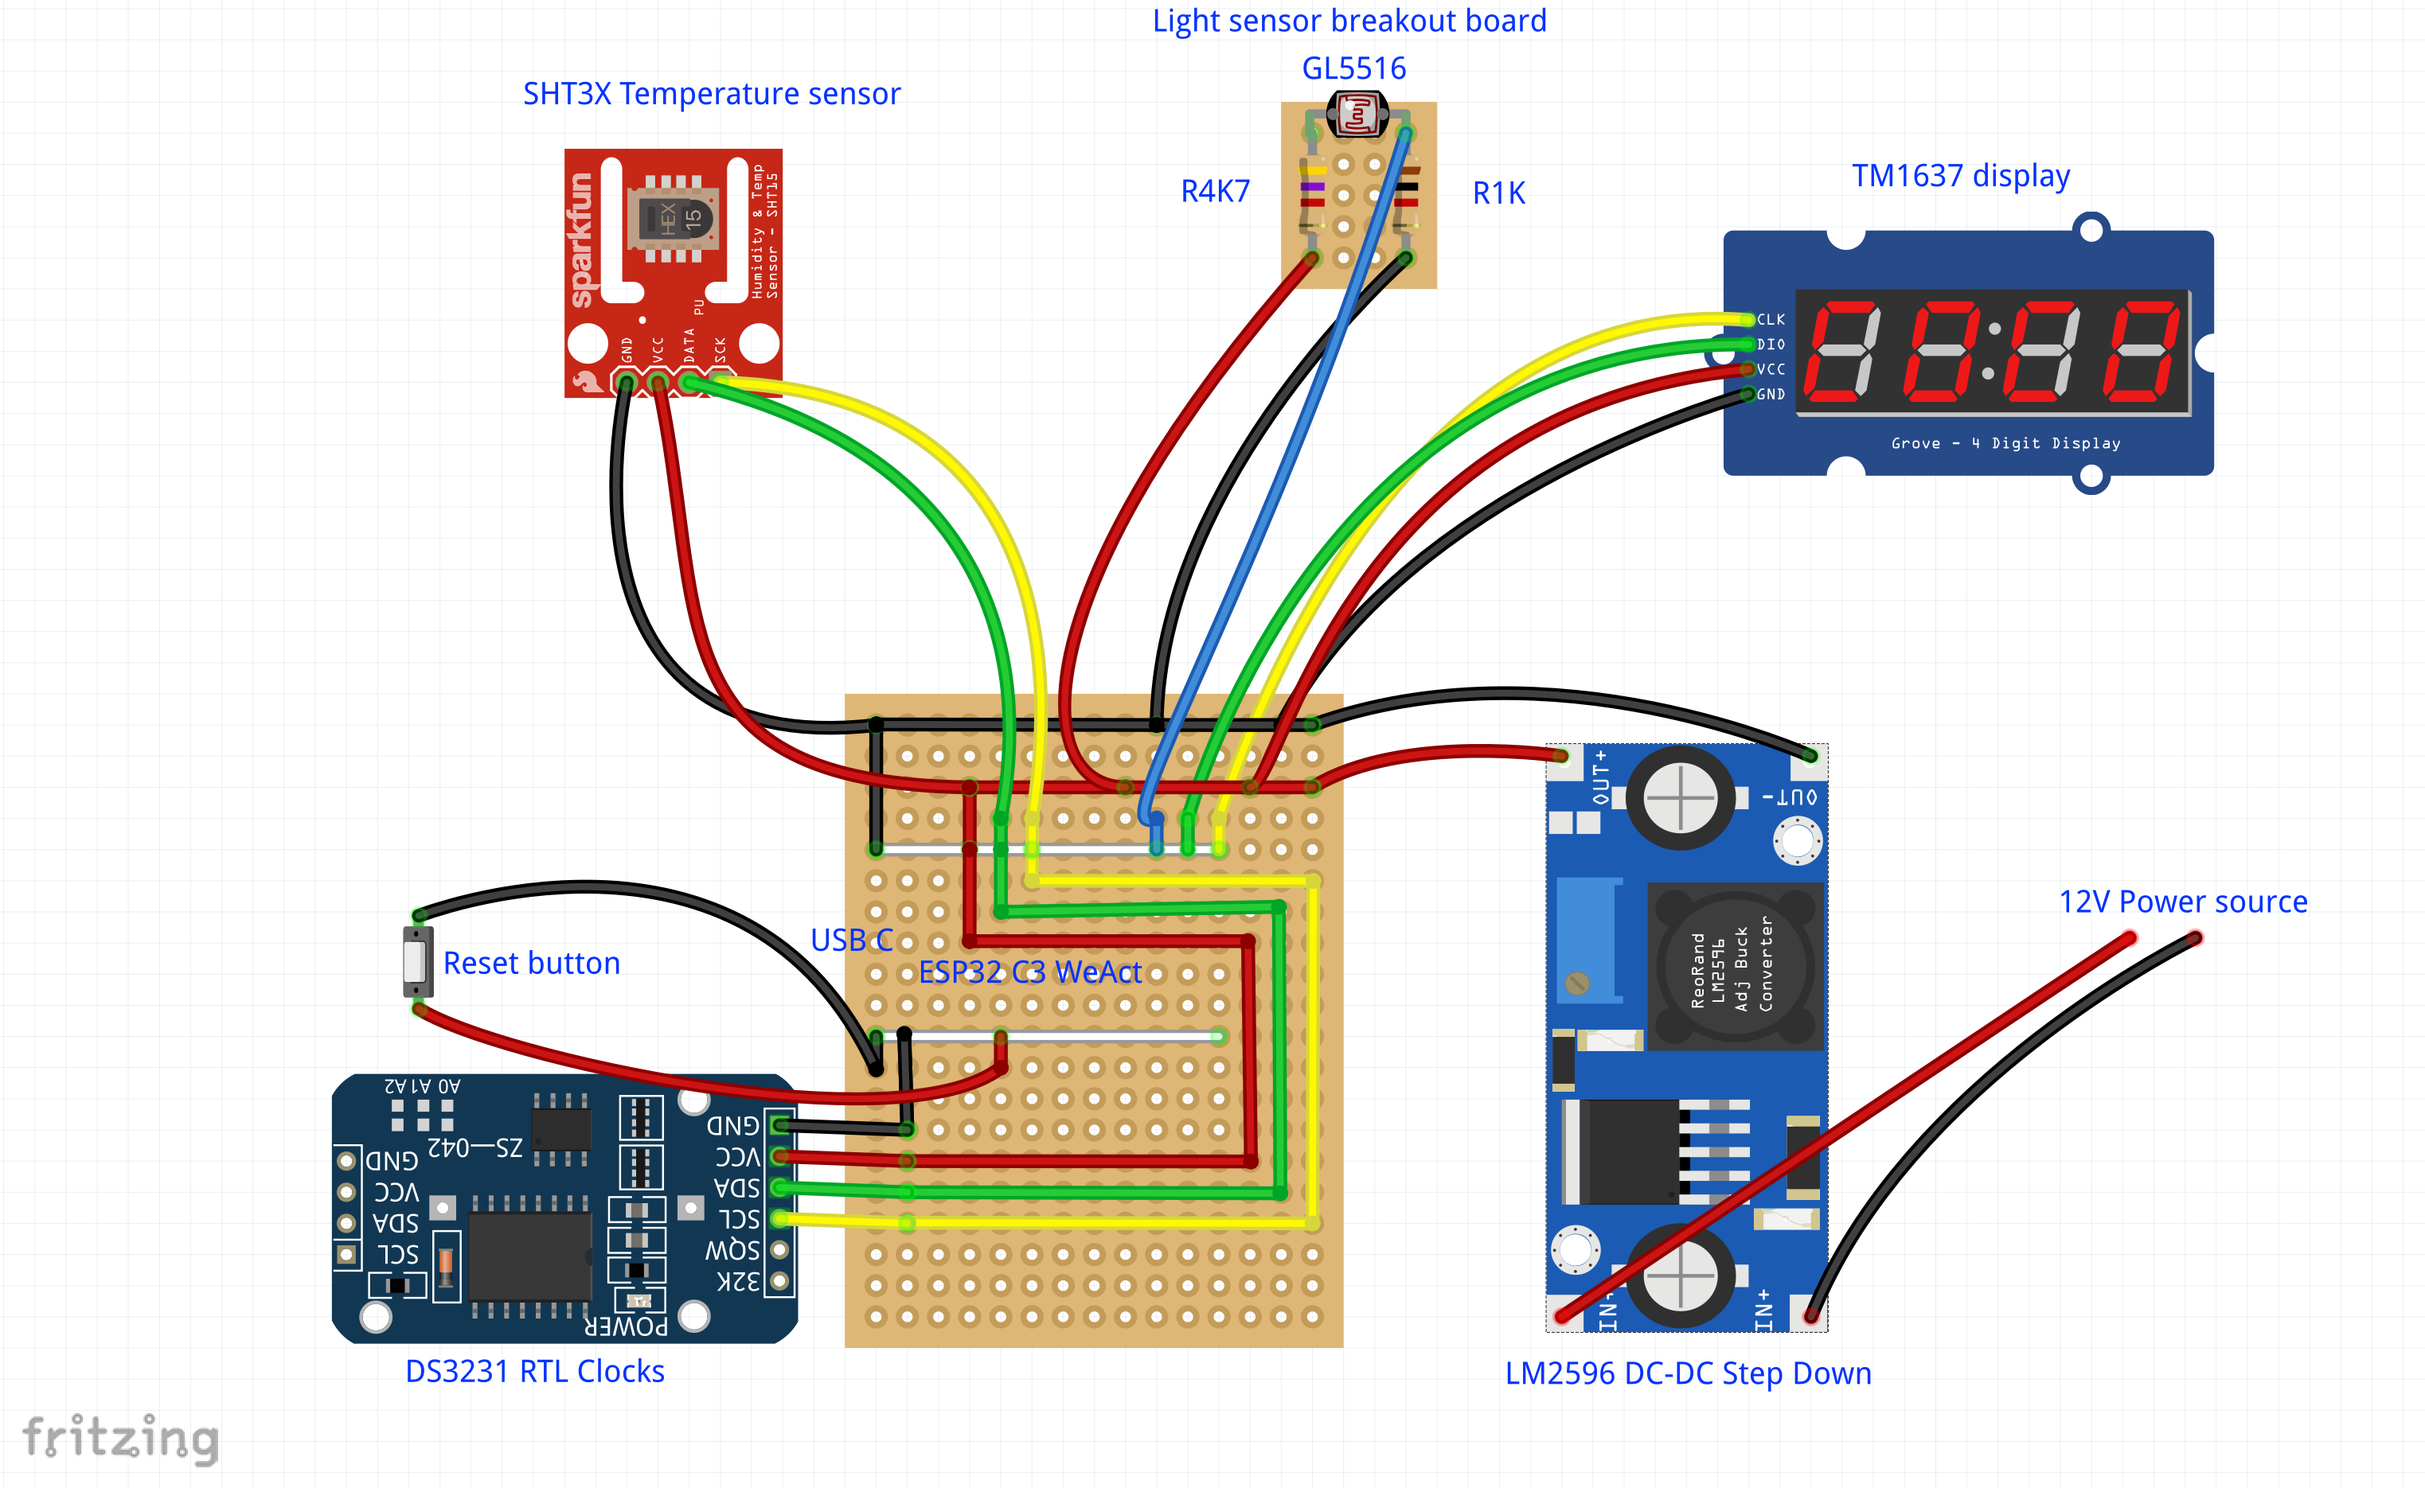
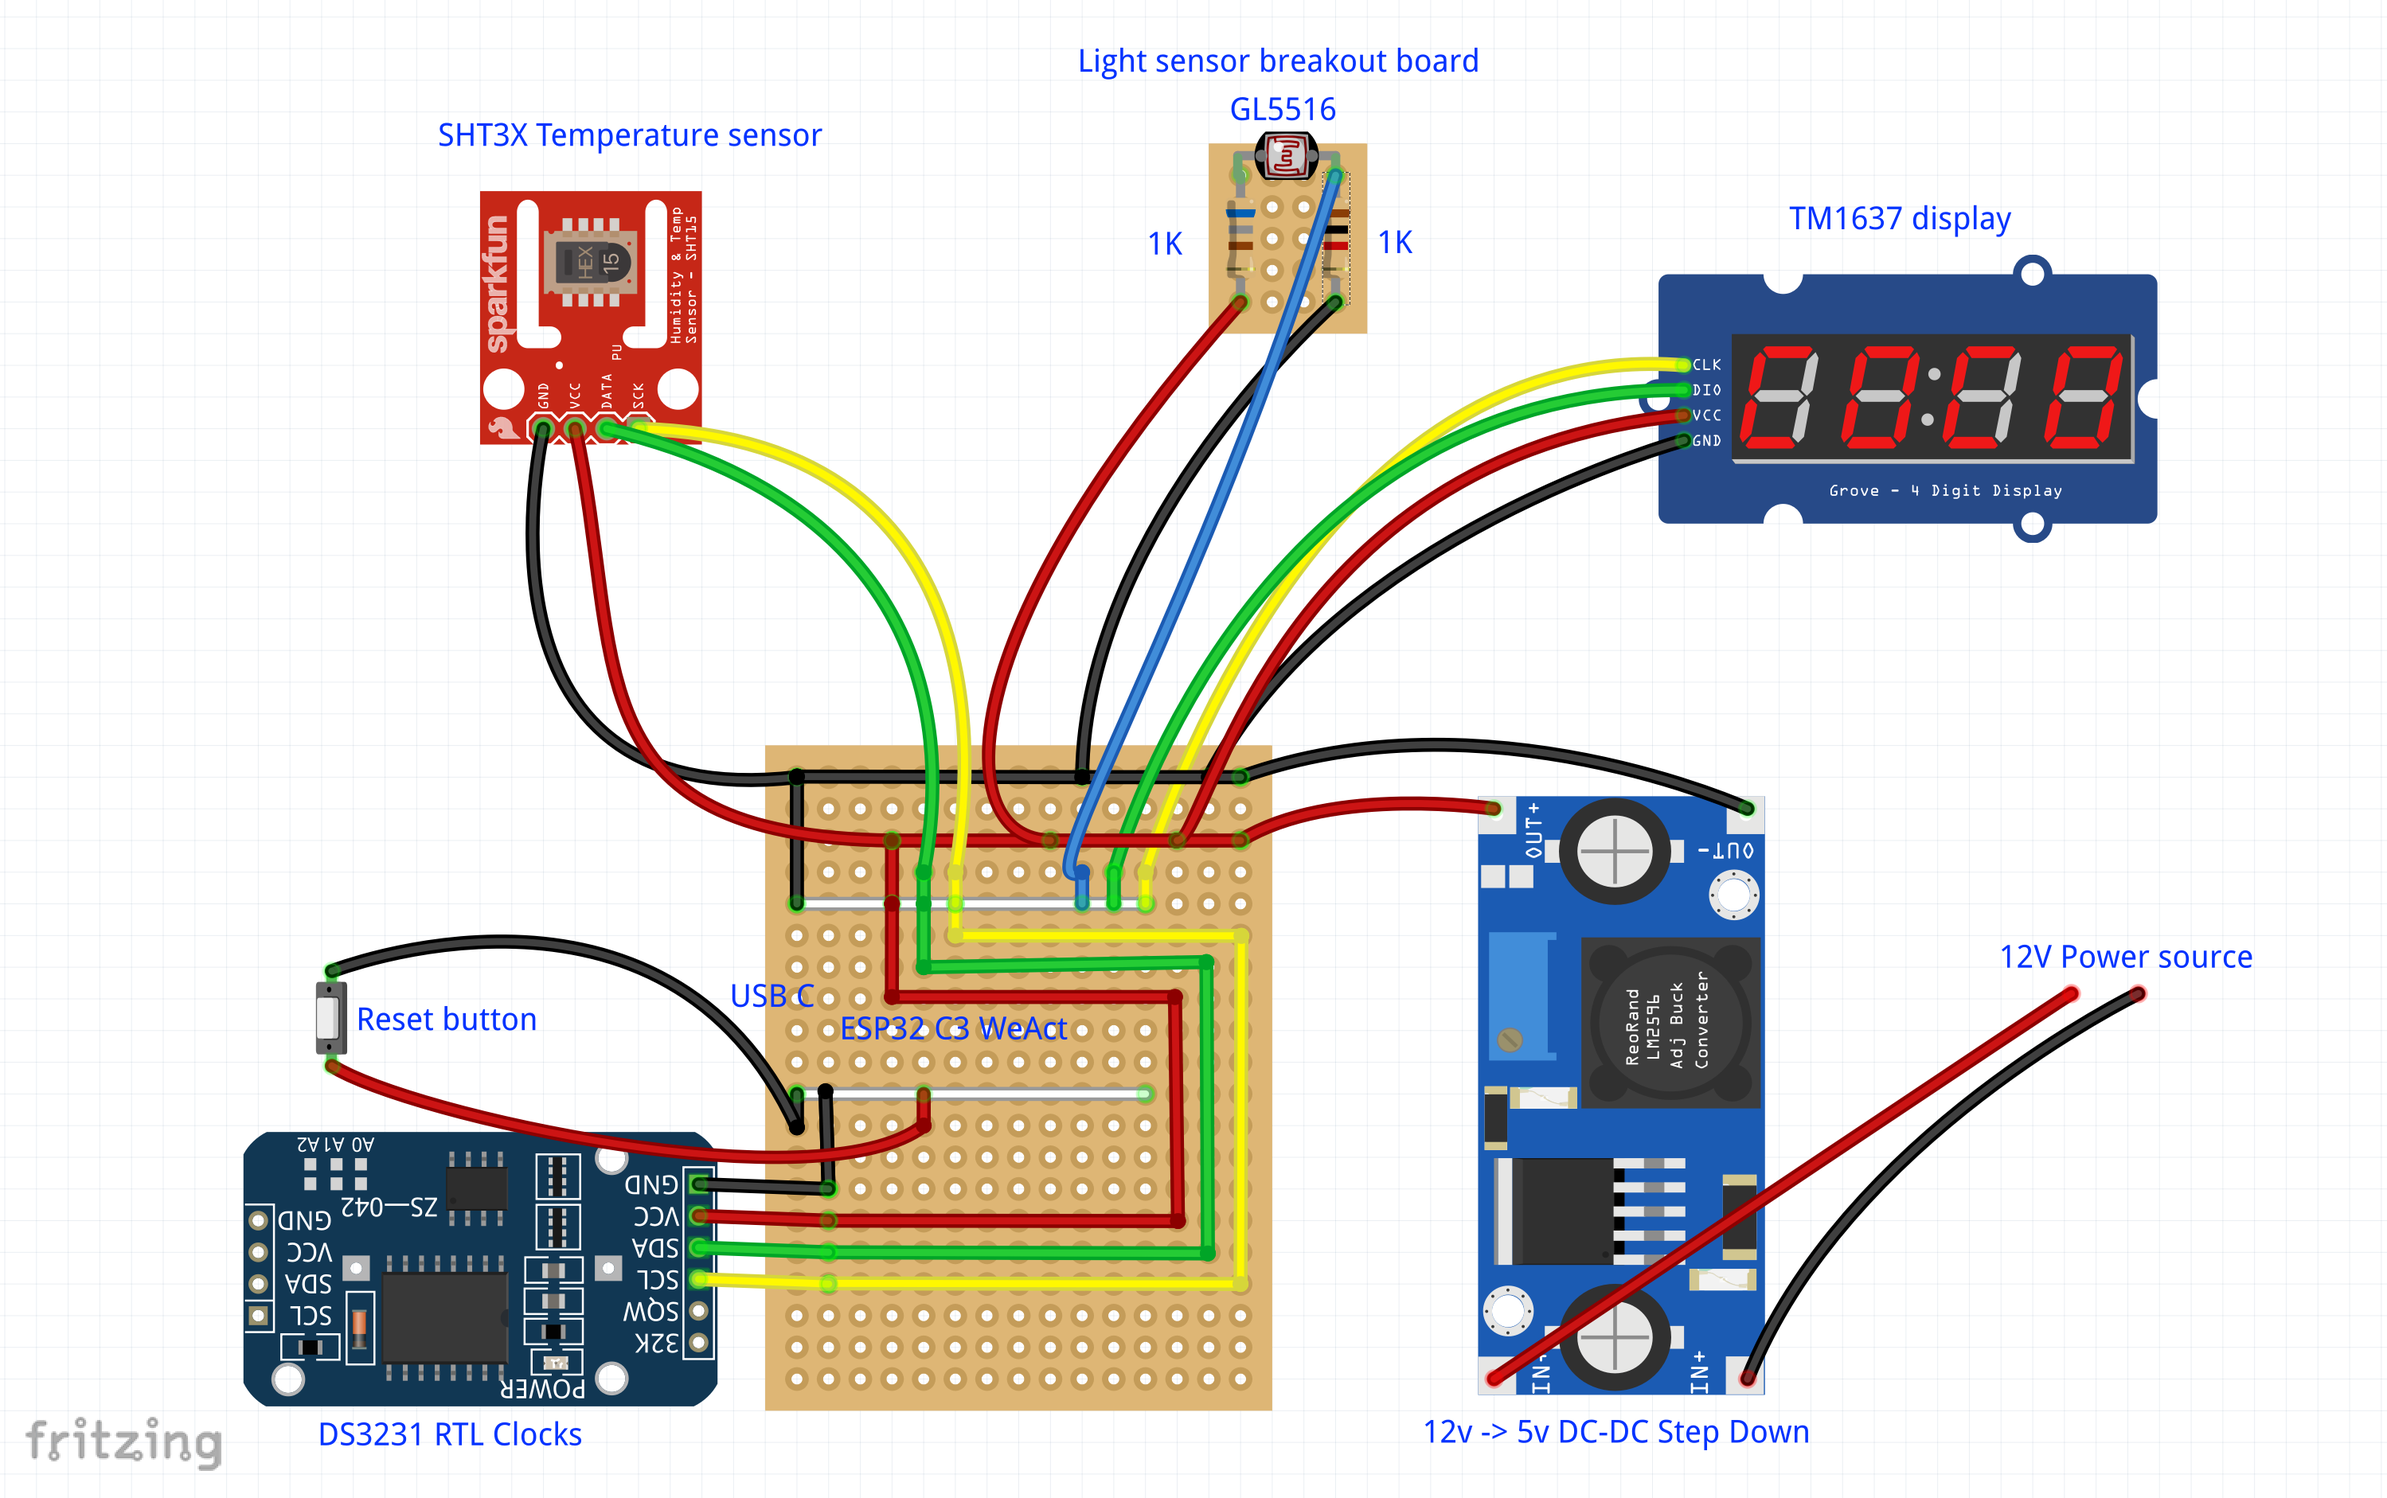
DS1820 temperature sensor support added, ADC oneshot mode added, photoresistor resistance changed

Changed region(s): [[0.0, 0.0, 0.9616, 0.9925]]

diff --git a/main/main.c b/main/main.c
@@ -46,13 +46,15 @@ void app_main(void)
 
   xTaskCreatePinnedToCore(&led_task, "LED", configMINIMAL_STACK_SIZE * 2, NULL, 1, NULL, 1);
   xTaskCreatePinnedToCore(&wifi_task, "Wi-Fi Keeper", configMINIMAL_STACK_SIZE * 3, NULL, 1, NULL, 1);
-  // xTaskCreatePinnedToCore(&light_sensor_task, "Light Sensor", configMINIMAL_STACK_SIZE * 2, NULL, 1, NULL, 1);
-  xTaskCreatePinnedToCore(&light_sensor_adc_task, "Light Sensor ADC", configMINIMAL_STACK_SIZE * 2, NULL, 1, NULL, 1);
+  // xTaskCreatePinnedToCore(&light_sensor_hw072_task, "Light Sensor", configMINIMAL_STACK_SIZE * 2, NULL, 1, NULL, 1);
+  // xTaskCreatePinnedToCore(&light_sensor_adc_task, "Light Sensor ADC", configMINIMAL_STACK_SIZE * 2, NULL, 1, NULL, 1);
+  xTaskCreatePinnedToCore(&light_sensor_adc_oneshot_task, "Light Sensor ADC Oneshot", configMINIMAL_STACK_SIZE * 2, NULL, 1, NULL, 1);
   xTaskCreatePinnedToCore(&external_timer_task, "External Timer", configMINIMAL_STACK_SIZE * 2, NULL, 1, NULL, 1);
   xTaskCreatePinnedToCore(&ntp_task, "NTP Sync", configMINIMAL_STACK_SIZE * 2, NULL, 1, NULL, 1);
   xTaskCreatePinnedToCore(&lcd_tm1637_task, "LCD TM1637", configMINIMAL_STACK_SIZE * 2, NULL, 1, NULL, 1);
   // xTaskCreatePinnedToCore(&temperature_from_SHT3X_sensor_task, "Temperature from SHT3X", configMINIMAL_STACK_SIZE * 2, NULL, 1, NULL, 1);
-  xTaskCreatePinnedToCore(&temperature_from_BMP280_sensor_task, "Temperature from BMP280", configMINIMAL_STACK_SIZE * 2, NULL, 1, NULL, 1);
+  // xTaskCreatePinnedToCore(&temperature_from_BMP280_sensor_task, "Temperature from BMP280", configMINIMAL_STACK_SIZE * 2, NULL, 1, NULL, 1);
+  xTaskCreatePinnedToCore(&temperature_from_DS1820_sensor_task, "Temperature from DS1820", configMINIMAL_STACK_SIZE * 2, NULL, 1, NULL, 1);
   xTaskCreatePinnedToCore(&weather_from_api_task, "Weather from API", configMINIMAL_STACK_SIZE * 3, NULL, 1, NULL, 1);
   xTaskCreatePinnedToCore(&ota_update_task, "OTA Update", configMINIMAL_STACK_SIZE * 4, NULL, 1, NULL, 1);
   xTaskCreatePinnedToCore(&system_state_task, "System State", configMINIMAL_STACK_SIZE * 2, NULL, 1, NULL, 1);

diff --git a/main/light/light_adc_oneshot.c b/main/light/light_adc_oneshot.c
@@ -1,7 +1,7 @@
 #include <freertos/FreeRTOS.h>
 #include <freertos/task.h>
 #include <driver/gpio.h>
-#include <driver/adc.h>
+#include "esp_adc/adc_oneshot.h"
 #include <esp_log.h>
 
 #include "sdkconfig.h"
@@ -9,25 +9,49 @@
 
 #include "light.h"
 
-static const char *TAG = "Light Sensor ADC";
+static const char *TAG = "Light Sensor ADC Oneshot";
 
 static const gpio_num_t LIGHT_SENSOR_PIN = CONFIG_LIGHT_SENSOR_PIN;
 static const uint16_t ADC_SWITCH_VALUE = 1400; // 3550 for MH light sensor breakout board
 static const uint16_t ADC_DRIFTING_TOLERANCE = 100;
 
-void light_sensor_adc_task(void *pvParameter)
+void light_sensor_adc_oneshot_task(void *pvParameter)
 {
   ESP_LOGI(TAG, "Init start");
-  adc1_config_width(ADC_WIDTH_MAX);
-  adc1_config_channel_atten(LIGHT_SENSOR_PIN, ADC_ATTEN_DB_11);
-
   bool is_event_bit_set = false;
   bool prev_global_is_light_on = false;
+  adc_channel_t channel;
+  adc_unit_t unit;
+
+  esp_err_t err = adc_oneshot_io_to_channel(LIGHT_SENSOR_PIN, &unit, &channel);
+  if (err != ESP_OK)
+  {
+    ESP_LOGE(TAG, "Pin %d is not ADC pin!", LIGHT_SENSOR_PIN);
+    vTaskDelete(NULL);
+  }
+  else
+  {
+    ESP_LOGI(TAG, "ADC channel: %d", channel);
+  }
+  adc_oneshot_unit_handle_t adc_handle;
+  adc_oneshot_unit_init_cfg_t init_config = {
+      .unit_id = unit,
+  };
+  adc_oneshot_new_unit(&init_config, &adc_handle);
+
+  adc_oneshot_chan_cfg_t config = {
+      .bitwidth = ADC_BITWIDTH_DEFAULT,
+      .atten = ADC_ATTEN_DB_11,
+  };
+  adc_oneshot_config_channel(adc_handle, channel, &config);
+  ESP_LOGI(TAG, "Init end");
 
   while (1)
   {
-    uint16_t adc_value = adc1_get_raw(LIGHT_SENSOR_PIN);
+    int adc_value;
+    adc_oneshot_read(adc_handle, channel, &adc_value);
     // ESP_LOGI(TAG, "ADC value: %d", adc_value);
+
     if (adc_value < ADC_SWITCH_VALUE - ADC_DRIFTING_TOLERANCE || adc_value > ADC_SWITCH_VALUE + ADC_DRIFTING_TOLERANCE)
     {
       global_is_light_on = adc_value > ADC_SWITCH_VALUE;

diff --git a/main/temperature_from_sensor/temperature_from_sensor_ds1820.c b/main/temperature_from_sensor/temperature_from_sensor_ds1820.c
@@ -1,0 +1,69 @@
+#include <inttypes.h>
+#include <freertos/FreeRTOS.h>
+#include <freertos/task.h>
+#include <driver/gpio.h>
+#include <esp_log.h>
+#include <string.h>
+#include <ds18x20.h>
+#include <inttypes.h>
+
+#include "sdkconfig.h"
+#include "global_event_group.h"
+
+#include "temperature_from_sensor.h"
+
+static const gpio_num_t SENSOR_GPIO = CONFIG_ONEWIRE_GPIO;
+static const uint8_t REFRESH_INTERVAL_MINS = 1;
+
+static const char *TAG = "DS1820 Temperature Sensor";
+
+uint64_t find_sensor_address()
+{
+  size_t sensor_count = 0;
+  onewire_addr_t addrs[1];
+
+  ds18x20_scan_devices(SENSOR_GPIO, addrs, 1, &sensor_count);
+
+  if (sensor_count > 0)
+  {
+    ESP_LOGI(TAG, "Sensor address: %lld", addrs[0]);
+    return addrs[0];
+  }
+  else
+  {
+    ESP_LOGE(TAG, "No sensors found!");
+    return 0;
+  }
+}
+
+void temperature_from_DS1820_sensor_task(void *pvParameter)
+{
+  // Not needed if there is a pull-up resistor on the data line (4.7k)
+  // gpio_set_pull_mode(SENSOR_GPIO, GPIO_PULLUP_ONLY);
+
+  float temperature;
+  uint64_t sensor_address = find_sensor_address();
+
+  if (sensor_address == 0)
+  {
+    vTaskDelete(NULL);
+  }
+
+  while (true)
+  {
+    xEventGroupClearBits(global_event_group, IS_INSIDE_TEMPERATURE_READING_DONE_BIT);
+
+    if (ds18x20_measure_and_read(SENSOR_GPIO, sensor_address, &temperature) == ESP_OK)
+    {
+      ESP_LOGI(TAG, "Temperature: %.2f °C", temperature);
+      global_inside_temperature = temperature;
+      xEventGroupSetBits(global_event_group, IS_INSIDE_TEMPERATURE_READING_DONE_BIT);
+    }
+    else
+    {
+      ESP_LOGE(TAG, "Can't measure the temperature");
+    }
+
+    vTaskDelay(1000 * 60 * REFRESH_INTERVAL_MINS / portTICK_PERIOD_MS);
+  }
+}

diff --git a/main/light/light_hw072.c b/main/light/light_hw072.c
@@ -18,7 +18,7 @@ static void read_and_save()
   xEventGroupSetBits(global_event_group, IS_LIGHT_SENSOR_READING_DONE_BIT);
 }
 
-void light_sensor_task(void *pvParameter)
+void light_sensor_hw072_task(void *pvParameter)
 {
   ESP_LOGI(TAG, "Init start");
   gpio_reset_pin(LIGHT_SENSOR_PIN);

diff --git a/main/light/light.h b/main/light/light.h
@@ -1,2 +1,3 @@
-void light_sensor_task(void *pvParameter);
+void light_sensor_hw072_task(void *pvParameter);
 void light_sensor_adc_task(void *pvParameter);
+void light_sensor_adc_oneshot_task(void *pvParameter);

diff --git a/main/temperature_from_sensor/temperature_from_sensor.h b/main/temperature_from_sensor/temperature_from_sensor.h
@@ -1,2 +1,3 @@
 void temperature_from_SHT3X_sensor_task(void *pvParameter);
 void temperature_from_BMP280_sensor_task(void *pvParameter);
+void temperature_from_DS1820_sensor_task(void *pvParameter);

diff --git a/README.md b/README.md
@@ -20,7 +20,8 @@ The project started from the dead section of the built-in clocks in my bath mirr
 - _Optional:_ **NTP Sync**
 - _Optional:_ **DS3231** external timer. Saving time to the separate precise clocks.
 - _Optional:_ **SHT3X** environment sensor. Measuring temperature (and optionally humidity).
-  Also provides fallback non-precise temperature (+-1.5 C).
+- _Optional:_ **BMP280/BME280** environment sensor. Measuring temperature (and optionally humidity).
+- _Optional:_ **DS1820** temperature sensor. Measuring temperature (and optionally humidity).
 - _Optional:_ **Temperature from API** over Wi-Fi and HTTPS. [api.weatherapi.com](https://www.weatherapi.com)
 - _Optional:_ **OTA Updates** over Wi-Fi and HTTPS.
 - _Optional:_ **GL5516** Photo resistor. Switching between full and minimal brightness using ADC.
